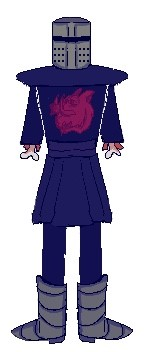
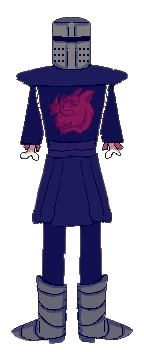
Made Character Selection Page Look Nice and Fixed Images that didn't have transparent bgs

diff --git a/templates/characters.html b/templates/characters.html
@@ -11,9 +11,18 @@
 
 <body>
   <header>Choose Your Character</header>
-  <img class = "player" src = "{{ url_for('static', filename = 'blackKnight5.png') }}"/>
-  <img class = "player" src = "{{ url_for('static', filename = 'whiteKnight5.png') }}"/>
-  <img class = "player" src = "{{ url_for('static', filename = 'blueKnight5.png') }}"/>
-  <img class = "player" src = "{{ url_for('static', filename = 'grayKnight5.png') }}"/>
+  <div id = "characterContainer">
+    <img class = "player" src = "{{ url_for('static', filename = 'blackKnight5.png') }}"/>
+    <input id = "black" type = "submit" class = "characterSelect" value = "Play As The Black Knight"/>
+
+    <img class = "player" src = "{{ url_for('static', filename = 'whiteKnight5.png') }}"/>
+    <input id = "white" type = "submit" class = "characterSelect" value = "Play As The White Knight"/>
+
+    <img class = "player" src = "{{ url_for('static', filename = 'blueKnight5.png') }}"/>
+    <input id = "blue" type = "submit" class = "characterSelect" value = "Play As The Blue Knight"/>
+
+    <img class = "player" src = "{{ url_for('static', filename = 'grayKnight5.png') }}"/>
+    <input id = "gray" type = "submit" class = "characterSelect" value = "Play As The Gray Knight"/>
+  </div>
 </body>
 </html>

diff --git a/static/style.css b/static/style.css
@@ -1,6 +1,9 @@
 *{
   font-family: Montserrat;
 }
+html{
+  background-color: antiquewhite;
+}
 header{
   text-align: center;
   font-size: 56px;
@@ -34,6 +37,7 @@ input[name = "guess"]{
   font-size: 23px;
   width: auto;
   height: 45px;
+  background: transparent;
 }
 #submit{
   margin: 20px;
@@ -69,4 +73,46 @@ input[name = "guess"]{
   color: navy;
   font-weight: 600;
   text-shadow: 1.5px 1.5px rgba(7, 4, 24, 0.282);
+}
+
+#characterContainer{
+  margin: 50px 200px;
+  display: flex;
+  flex-direction: column;
+  align-items: center;
+}
+.characterSelect{
+  margin-bottom: 40px;
+  margin-top: 15px;
+  padding: 5px;
+  font-size: 24px;
+  transition: 0.35s;
+}
+.characterSelect:hover{
+  margin-bottom: 55px;
+  margin-top: 20px;
+  font-size: 36px;
+  padding: 10px;
+  border-radius: 24px;
+  font-weight: bold;
+}
+#black:hover{
+  background-color: black;
+  color: white;
+  border: 4px solid white;
+}
+#white:hover{
+  background-color: white;
+  color: black;
+  border: 4px solid black;
+}
+#blue:hover{
+  background-color: navy;
+  color: rgb(197, 64, 64);
+  border: 4px solid rgb(197, 64, 64);
+}
+#gray:hover{
+  background-color: rgb(183, 192, 194);
+  color: navy;
+  border: 4px solid navy;
 }

diff --git a/main.py b/main.py
@@ -5,7 +5,7 @@ r = RandomWord()
 
 app = Flask(__name__)
 
-
+# Used to ChatGPT to help brainstorm ideas for debugging the duplicate letter guessing system, did not copy and paste code
 @app.route('/game', methods = ["GET", "POST"])
 def index():
   alphabet = ['A', 'B', 'C', 'D', 'E', 'F', 'G', 'H', 'I', 'J', 'K', 'L', 'M', 'N', 'O', 'P', 'Q', 'R', 'S', 'T', 'U', 'V', 'W', 'X', 'Y', 'Z']
